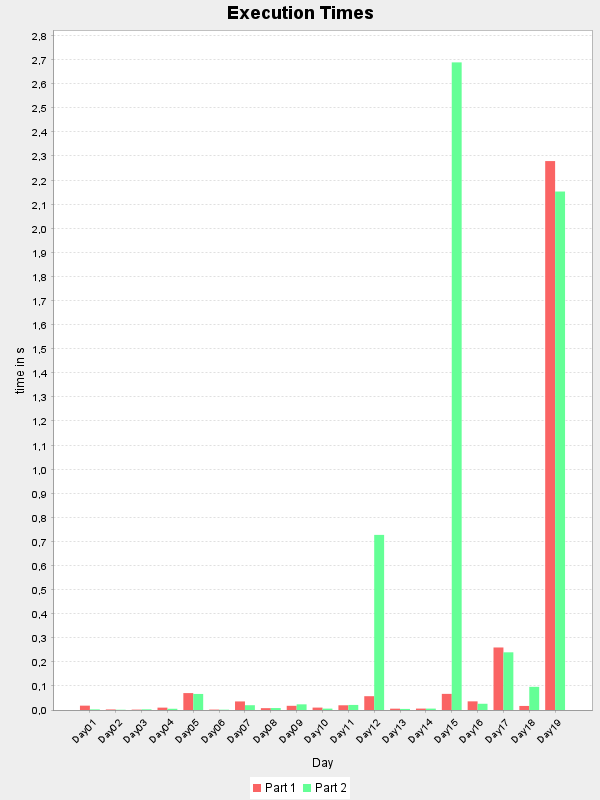
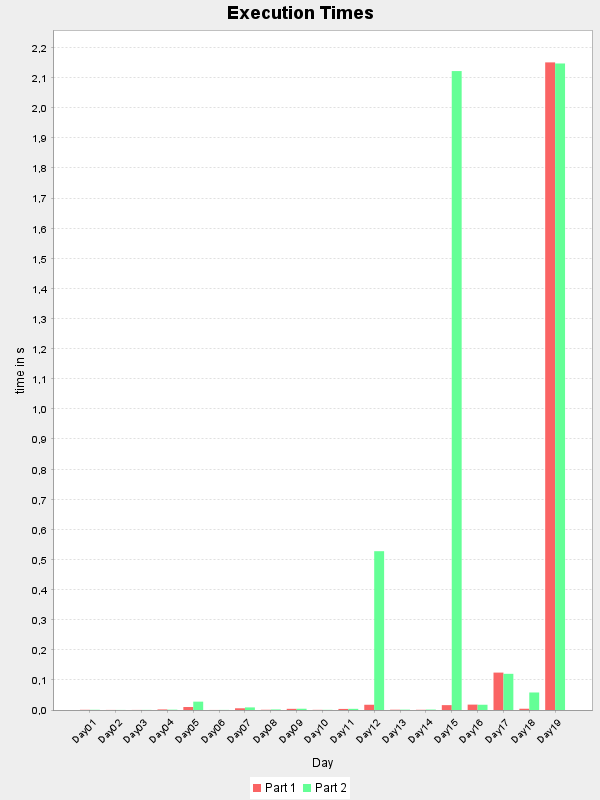
Visualization improvements

diff --git a/src/PlotActual.kt b/src/PlotActual.kt
@@ -10,6 +10,7 @@ import org.jfree.chart.renderer.category.StandardBarPainter
 import org.jfree.data.category.DefaultCategoryDataset
 import java.awt.Color
 import java.nio.file.Paths
+import kotlin.time.Duration
 import kotlin.time.DurationUnit
 
 private val dayClasses = dayClasses()
@@ -77,5 +78,8 @@ private data class Result(
     val part2Duration by lazy { day.part2.runTimed(2) }
 
     private fun Day.Part<*>.runTimed(index: Int) =
-        runTimed { runActual(index) }
+        repeat(5) { runTimed { runActual(index) } }
+            .let {
+                (0 until 10).map { runTimed { runActual(index) } }.reduce(Duration::plus).div(10)
+            }
 }
